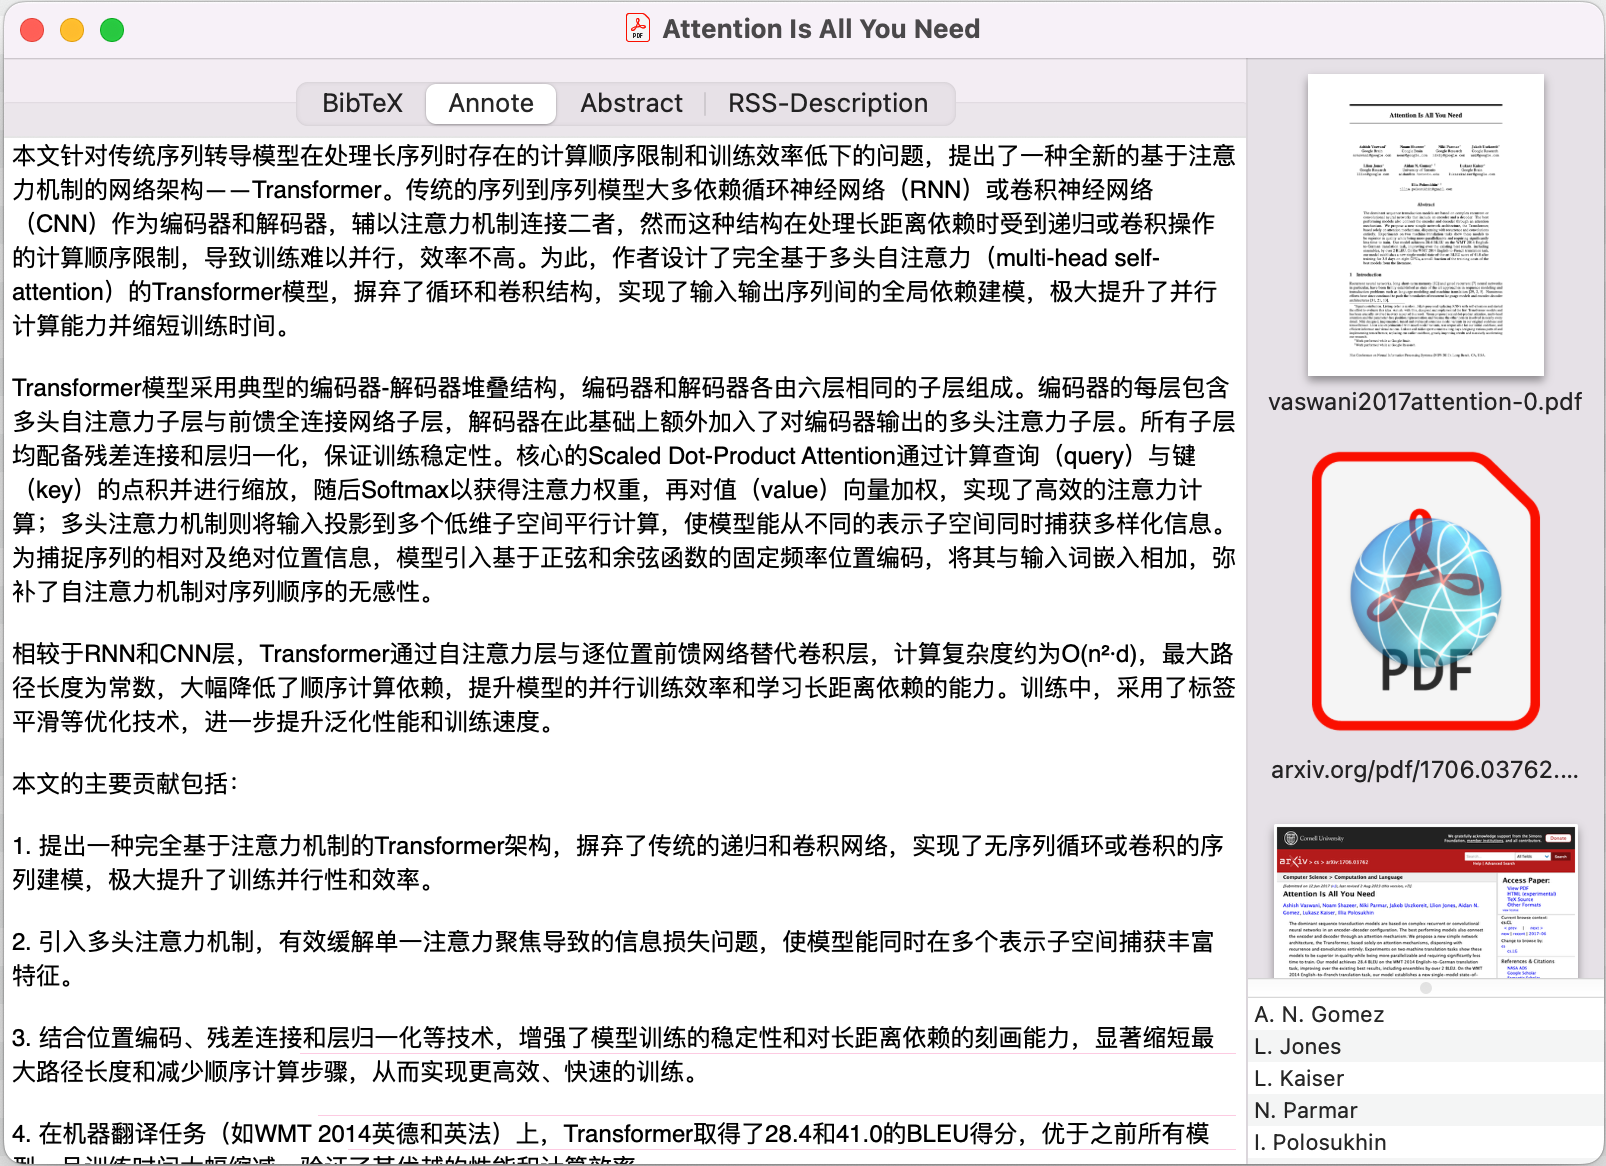
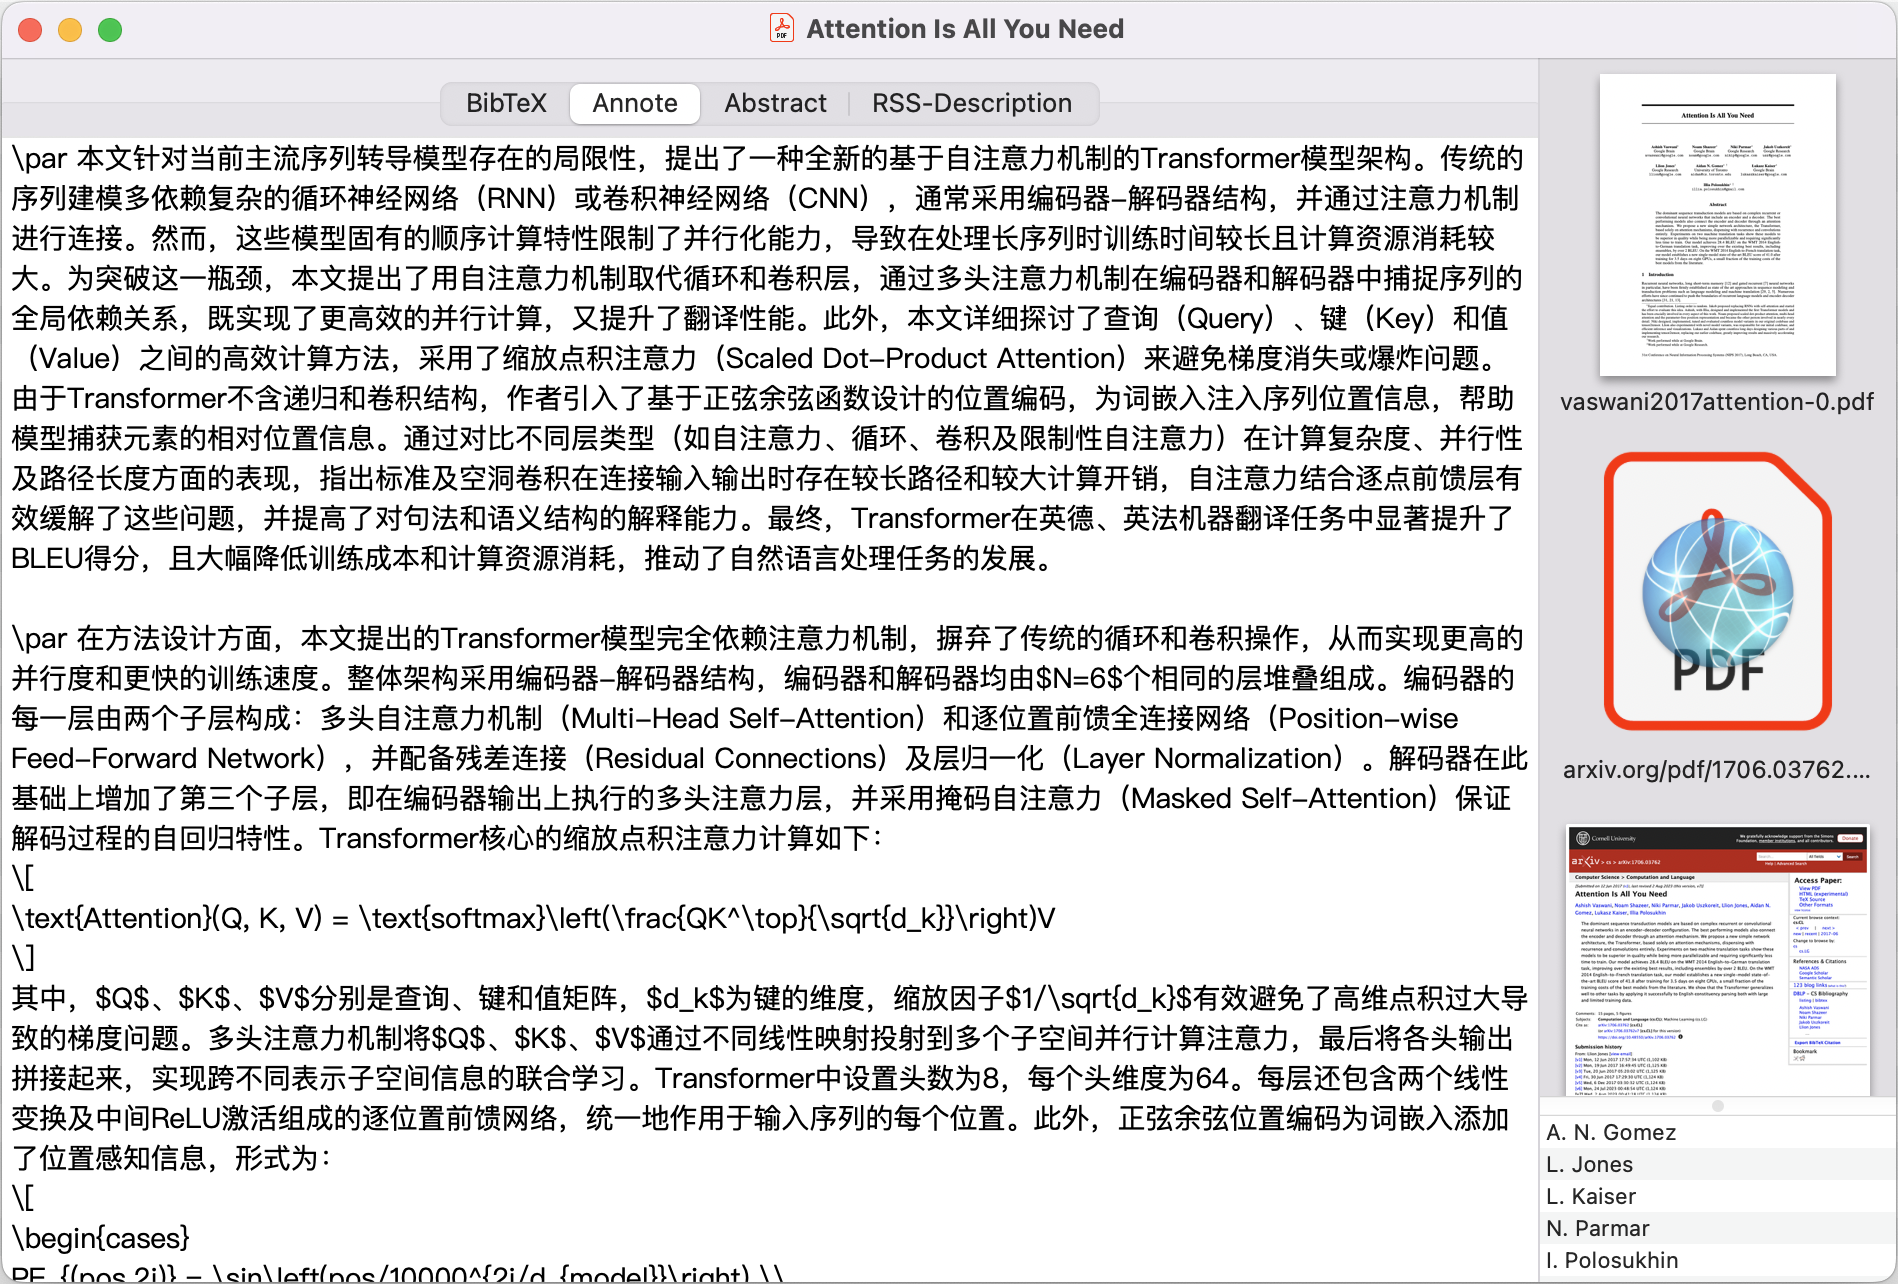
Update: Update README

diff --git a/README.md b/README.md
@@ -3,18 +3,32 @@
 Automation script for summarizing papers in BibDesk.
 
 ![Example Screenshot](imgs/intro.png)
+![Example Screenshot](imgs/render.png)
 
 ## Highlights
 
 * 📎Just attach the PDFs to the BibDesk entry and ensure the "annote" field to be empty.
-* ⚙The script will automatically summarize the papers and fill the "annote" field with the summary, once the editor window is closed.
+* ⚙The script will automatically summarize the paper and write to the "annote" field, once the editor window is closed.
+* 📄Click on "TeX Preview" to checkout the summary.
+* 📖Full LaTeX functionality support for the summary.
 
 # Usage
 
+Assume all the commands are executed in the root directory of the repository.
+
+## AppleScript Automation
+
 1. Ensure you have Python 3.8+ installed.
-2. Copy ALL the files in `src` to your BibDesk scripts directory, usually `~/Library/Application Support/BibDesk/Scripts/`.
-3. Edit the `ai_summarize.py` file to set up your access to LLM services.
-4. Add the `ai_summarize.apple` script to "Close Editor Window" hook in `BibDesk > Preferences > Script Hooks`.
+2. Edit the `BASE_URL`, `API_KEY` and `MODEL_NAME` line in the `ai_summarize.py` file to set up your access to LLM services.
+3. Execute `cp src/ai_summarize.* ~/Library/Application\ Support/BibDesk/Scripts/` to install the script files.
+4. Add the `ai_summarize.applescript` to the "Close Editor Window" hook in `BibDesk > Preferences > Script Hooks`.
+
+## TeX Preview
+
+1. Execute `mkdir -p $(kpsewhich --var-value TEXMFHOME)/bibtex/bst` to create the necessary directory.
+2. Execute `cp src/acm-annote.bst $(kpsewhich --var-value TEXMFHOME)/bibtex/bst/` to install the bibtex style file.
+3. Execute `cp src/previewtemplate.tex ~/Library/Application\ Support/BibDesk/` to override the default preview template.
+4. In BibDesk, go to `Preferences > Preview`, first enable "Generate previews using TeX", and then change the "Full path to pdflatex" to `/Library/TeX/texbin/xelatex`.
 
 Once you have set up the script, you can use it by:
 
@@ -22,5 +36,6 @@ Once you have set up the script, you can use it by:
 2. Ensure the "annote" field is empty.
 3. Close the editor window.
 4. Wait until the gear icon ⚙ in the menu bar disappears.
+5. Click on the "TeX Preview" button in the BibDesk entry to view the summary.
 
 The first launch may take a while as it sets up the environment and downloads necessary packages. Subsequent launches will be faster.
